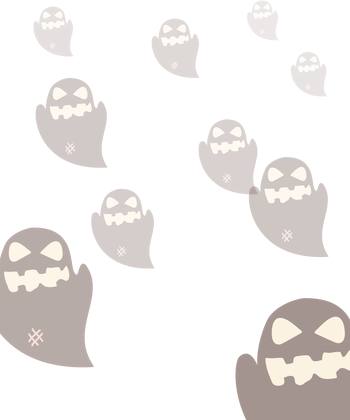
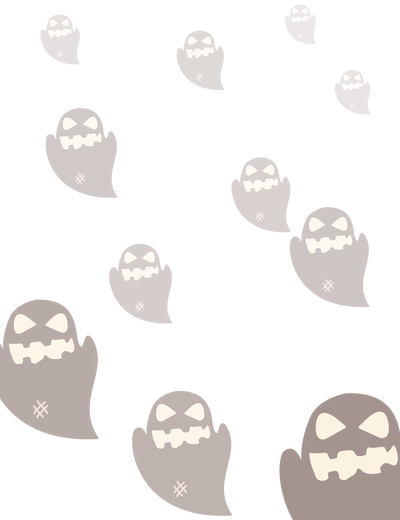
Fixed minor bugs and added sounds.

diff --git a/auto_scroller.py b/auto_scroller.py
@@ -1,7 +1,6 @@
 import sys
 import os
 import json
-import time
 import locale
 import threading
 import multiprocessing
@@ -11,6 +10,7 @@ from platformdirs import user_data_dir
 from random import randint, uniform
 from language_dict import LANG
 from cursor_controls import CursorControls
+from sound_utils import sound_start, sound_tick, sound_stop, sound_clock_tick
 
 
 def bundled_path(relative_path):
@@ -25,8 +25,8 @@ DATA_DIR = user_data_dir(APP_NAME)
 cursor_checks_dict = {"use_trigger": None, "max_wait": None, "min_wait": None, "timer_limit": None}
 app_status = {
     "running_clicks": False,
-    "check_type": None,
-    "timer_limit": None
+    "timer_limit": None,
+    "minutes_remaining": None,
 }
 manual_stop = True
 
@@ -47,7 +47,7 @@ else:
             "language": active_lang,
             "max_click_timer": None,
             "min_click_timer": None,
-            "use_sound": None,
+            "timer_limit": None
         }, _f, indent=2)
 
 active_lang = active_lang if active_lang in LANG else "en"
@@ -104,10 +104,8 @@ def on_reset_settings(icon, _):
                 "language": active_lang,
                 "max_click_timer": None,
                 "min_click_timer": None,
-                "use_sound": None,
+                "timer_limit": None,
             }, _f, indent=2)
-            print('Hello!!!')
-            raise OSError
     except OSError:
         icon.notify("Could not reset settings.", translated_variables["app_title"])
         return
@@ -134,6 +132,7 @@ translated_variables = LANG[active_lang]
 def on_start_scrolling(icon, _):
     global manual_stop
     manual_stop = False
+    threading.Thread(target=sound_start, daemon=True).start()
     threading.Thread(target=run_cursor_controls, args=(icon,), daemon=True).start()
     print('Started Cursor Controling!')
 
@@ -142,7 +141,6 @@ def on_stop_scrolling():
     global manual_stop
     manual_stop = True
     app_status["running_clicks"] = False
-    app_status["check_type"] = None
     print('Stoped cursor controling!')
 
 
@@ -177,23 +175,18 @@ def settings_watcher(icon):
                 MenuItem(translated_variables["quit"], on_quit),
             )
         
-        cursor_checks_dict['use_sound'] = settings.get('use_sound')
         cursor_checks_dict['timer_limit'] = settings.get('timer_limit')
-        if cursor_checks_dict["use_sound"] == True:
-            cursor_checks_dict['max_wait'] = None
-            cursor_checks_dict['min_wait'] = None
-        elif cursor_checks_dict["use_sound"] == False:
-            cursor_checks_dict['max_wait'] = settings.get('max_click_timer')
-            cursor_checks_dict['min_wait'] = settings.get('min_click_timer')
+        cursor_checks_dict['max_wait'] = settings.get('max_click_timer')
+        cursor_checks_dict['min_wait'] = settings.get('min_click_timer')
 
         t = LANG[active_lang]
         click_status = t["1"][0] if app_status["running_clicks"] else t["1"][1]
-        wait_type = t["2"][1] if app_status["check_type"] == "Sound" else t["2"][0]
         timer = str(app_status["timer_limit"]) if app_status["timer_limit"] is not None else "?"
+        remaining = str(app_status["minutes_remaining"]) if app_status["minutes_remaining"] is not None else "?"
         title = t["app_title"]
         title = title.replace(": 1", f": {click_status}")
-        title = title.replace(": 2", f": {wait_type}")
         title = title.replace(": 3 ", f": {timer} ")
+        title = title.replace(": 4 ", f": {remaining} ")
         icon.title = title
 
 
@@ -209,47 +202,34 @@ def run_cursor_controls(icon):
         raw_limit = cursor_checks_dict.get('timer_limit')
         timer_limit = int(raw_limit)*60 if raw_limit is not None else None
         app_status['timer_limit'] = raw_limit
-        print("Line 218: ", app_status, bound_updated, timer_limit_iterator)
+        if timer_limit is not None:
+            app_status['minutes_remaining'] = max(0, (timer_limit - timer_limit_iterator) // 60)
+        else:
+            app_status['minutes_remaining'] = None
+        print(app_status, "click_time: ", random_bound, "time running clicks: ", timer_limit_iterator)
         if timer_limit is None or timer_limit >= timer_limit_iterator and manual_stop != True:
 
             app_status["running_clicks"] = True
 
-            if cursor_checks_dict.get("use_sound") == True:
-                print('We use sound!')
-                app_status["check_type"] = 'Sound'
-                status = CursorControls.check_device_sound_status()
-                if status == False: # This means the device does not run audio.
-                    print('Audio does not play.')
-                    for i in range(randint(3, 10)):
-                        time.sleep(1)
-                        timer_limit_iterator +=1
-                    CursorControls.apply_click()
-                for i in range(randint(4, 7)):
-                    time.sleep(1)
-                    timer_limit_iterator +=1
-                random_bound = -1
+            if bound_updated == False:
+                try:
+                    random_bound = randint(int(cursor_checks_dict.get('min_wait')), int(cursor_checks_dict.get('max_wait')))
+                    bound_updated = True
+                    print('Random_bound updated!')
+                except:
+                    pass
+            if iterator >= random_bound and random_bound != -1:
+                print('We clicked!!')
+                CursorControls.apply_click()
+                threading.Thread(target=sound_tick, daemon=True).start()
                 bound_updated = False
                 iterator = 0
-            elif cursor_checks_dict.get("use_sound") == False:
-                print('We use timer!')
-                app_status["check_type"] = 'Timer'
-                if bound_updated == False:
-                    try:
-                        print('I tried to update random_bound!')
-                        random_bound = randint(int(cursor_checks_dict.get('min_wait')), int(cursor_checks_dict.get('max_wait')))
-                        bound_updated = True
-                        print('Random_bound updated!')
-                    except:
-                        pass
-                if iterator >= random_bound and random_bound != -1:
-                    print('We clicked!!')
-                    CursorControls.apply_click()
-                    bound_updated = False
-                    iterator = 0
-                iterator += 1
-            timer_limit_iterator +=1
+            iterator += 1
+            timer_limit_iterator += 1
+            threading.Thread(target=sound_clock_tick, daemon=True).start()
         else:
             on_stop_scrolling()
+            threading.Thread(target=sound_stop, daemon=True).start()
             break
 
 

diff --git a/as_interface.py b/as_interface.py
@@ -30,9 +30,9 @@ class Interface:
 
         self.root = tk.Tk()
         self.root.title(self.lang[self.active_lang]["app_title"])
-        self.root.geometry("350x420")
-        self.root.minsize(350, 420)
-        self.root.maxsize(350, 420)
+        self.root.geometry("400x520")
+        self.root.minsize(400, 520)
+        self.root.maxsize(400, 520)
         self.root.withdraw()
 
         self._setup_styles()
@@ -56,7 +56,7 @@ class Interface:
         )
 
     def _setup_background(self):
-        bg_image = ImageTk.PhotoImage(Image.open(self.bundled_path("bg.png")).resize((350, 420)))
+        bg_image = ImageTk.PhotoImage(Image.open(self.bundled_path("bg.png")).resize((400, 520)))
         bg_label = tk.Label(self.root, image=bg_image)
         bg_label.image = bg_image
         bg_label.place(x=0, y=0, relwidth=1, relheight=1)
@@ -78,35 +78,30 @@ class Interface:
         # Max click timer
         max_frame = tk.Frame(container)
         max_frame.pack(pady=8)
-        self.max_label = tk.Label(max_frame, text=translated_variables["max_click_timer"], width=10, anchor="w")
+        self.max_label = tk.Label(max_frame, text=translated_variables["max_click_timer"], width=18, anchor="w")
         self.max_label.pack(side="left")
         self.max_var = tk.StringVar()
-        max_combo = ttk.Combobox(max_frame, textvariable=self.max_var, values=list(range(20, 121)), width=4, state="readonly", exportselection=False, justify="center")
+        max_combo = ttk.Combobox(max_frame, textvariable=self.max_var, values=list(range(20, 121)), width=5, state="readonly", exportselection=False, justify="center")
         max_combo.pack(side="left", padx=5)
         max_combo.bind("<<ComboboxSelected>>", on_select)
 
         # Min click timer
         min_frame = tk.Frame(container)
         min_frame.pack(pady=8)
-        self.min_label = tk.Label(min_frame, text=translated_variables["min_click_timer"], width=10, anchor="w")
+        self.min_label = tk.Label(min_frame, text=translated_variables["min_click_timer"], width=18, anchor="w")
         self.min_label.pack(side="left")
         self.min_var = tk.StringVar()
-        min_combo = ttk.Combobox(min_frame, textvariable=self.min_var, values=list(range(10, 40)), width=4, state="readonly", exportselection=False, justify="center")
+        min_combo = ttk.Combobox(min_frame, textvariable=self.min_var, values=list(range(10, 40)), width=5, state="readonly", exportselection=False, justify="center")
         min_combo.pack(side="left", padx=5)
         min_combo.bind("<<ComboboxSelected>>", on_select)
-
-        # Use sound instead
-        self.use_sound_var = tk.IntVar()
-        self.use_sound_check = tk.Checkbutton(container, text=translated_variables["use_sound_instead"], variable=self.use_sound_var, onvalue=1, offvalue=0)
-        self.use_sound_check.pack(pady=8)
 
         # Timer limit
         timer_frame = tk.Frame(container)
         timer_frame.pack(pady=8)
-        self.timer_label = tk.Label(timer_frame, text=translated_variables["timer_limit"], width=10, anchor="w")
+        self.timer_label = tk.Label(timer_frame, text=translated_variables["timer_limit"], width=18, anchor="w")
         self.timer_label.pack(side="left")
         self.timer_var = tk.StringVar()
-        timer_combo = ttk.Combobox(timer_frame, textvariable=self.timer_var, values=list(range(1, 121)), width=4, state="readonly", exportselection=False, justify="center")
+        timer_combo = ttk.Combobox(timer_frame, textvariable=self.timer_var, values=list(range(1, 121)), width=5, state="readonly", exportselection=False, justify="center")
         timer_combo.pack(side="left", padx=5)
         timer_combo.bind("<<ComboboxSelected>>", on_select)
 
@@ -132,7 +127,6 @@ class Interface:
         self.root.title(translated_variables["app_title"])
         self.max_label.config(text=translated_variables["max_click_timer"])
         self.min_label.config(text=translated_variables["min_click_timer"])
-        self.use_sound_check.config(text=translated_variables["use_sound_instead"])
         self.timer_label.config(text=translated_variables["timer_limit"])
         self.save_btn.config(text=translated_variables["save"])
 
@@ -143,20 +137,17 @@ class Interface:
     def _load_settings(self):
         self.max_var.set("")
         self.min_var.set("")
-        self.use_sound_var.set(False)
         self.timer_var.set("")
         if not os.path.exists(self.settings_path):
             return
         try:
             with open(self.settings_path, "r") as f:
                 settings = json.load(f)
-            if "max_click_timer" in settings:
+            if settings.get("max_click_timer") is not None:
                 self.max_var.set(settings["max_click_timer"])
-            if "min_click_timer" in settings:
+            if settings.get("min_click_timer") is not None:
                 self.min_var.set(settings["min_click_timer"])
-            if settings.get("use_sound") is not None:
-                self.use_sound_var.set(1 if settings["use_sound"] else 0)
-            if "timer_limit" in settings:
+            if settings.get("timer_limit") is not None:
                 self.timer_var.set(settings["timer_limit"])
         except (json.JSONDecodeError, OSError):
             pass
@@ -164,10 +155,10 @@ class Interface:
     def _save_settings(self):
         os.makedirs(self.data_dir, exist_ok=True)
         settings = {
-            "max_click_timer": self.max_var.get(),
-            "min_click_timer": self.min_var.get(),
-            "use_sound": self.use_sound_var.get() == 1,
-            "timer_limit": self.timer_var.get(),
+            "language": self.active_lang,
+            "max_click_timer": self.max_var.get() or None,
+            "min_click_timer": self.min_var.get() or None,
+            "timer_limit": self.timer_var.get() or None,
         }
         with open(self.settings_path, "w") as f:
             json.dump(settings, f, indent=2)

diff --git a/sound_utils.py b/sound_utils.py
@@ -1,0 +1,68 @@
+import queue
+import threading
+import numpy as np
+import sounddevice as sd
+
+# Single audio worker — all playback goes through this queue to avoid
+# concurrent sd.play() calls which cause PortAudio double-free crashes.
+_audio_queue = queue.Queue()
+
+
+def _audio_worker():
+    while True:
+        wave, sample_rate = _audio_queue.get()
+        sd.play(wave, sample_rate)
+        sd.wait()
+
+
+threading.Thread(target=_audio_worker, daemon=True).start()
+
+
+def _enqueue(wave, sample_rate=44100):
+    _audio_queue.put((wave.astype(np.float32), sample_rate))
+
+
+def _sine(frequency, duration, volume=0.4, fade_ms=10, sample_rate=44100):
+    samples = int(sample_rate * duration)
+    t = np.linspace(0, duration, samples, False)
+    wave = volume * np.sin(2 * np.pi * frequency * t)
+    fade = int(sample_rate * fade_ms / 1000)
+    ramp = np.linspace(0, 1, fade)
+    wave[:fade] *= ramp
+    wave[-fade:] *= ramp[::-1]
+    return wave
+
+
+def sound_start():
+    """Two rising tones — scrolling has started."""
+    wave = np.concatenate([_sine(660, 0.07), _sine(880, 0.07)])
+    _enqueue(wave)
+
+
+def sound_tick():
+    """Short high tick — a click was applied."""
+    _enqueue(_sine(1000, 0.05))
+
+
+def sound_clock_tick():
+    """Mechanical clock tick — fires every second while timer runs.
+    Skipped if audio is already busy so ticks never pile up."""
+    if not _audio_queue.empty():
+        return
+    sample_rate = 44100
+    duration = 0.08
+    samples = int(sample_rate * duration)
+    rng = np.random.default_rng()
+    noise = rng.uniform(-1, 1, samples)
+    decay = np.exp(-np.linspace(0, 40, samples))
+    tick = 0.002 * noise * decay
+    t = np.linspace(0, duration, samples, False)
+    thump = 0.01 * np.sin(2 * np.pi * 180 * t) * np.exp(-np.linspace(0, 30, samples))
+    wave = np.clip(tick + thump, -1.0, 1.0)
+    _enqueue(wave, sample_rate)
+
+
+def sound_stop():
+    """Three descending tones — scrolling has stopped due to timer limit."""
+    wave = np.concatenate([_sine(440, 1.2), _sine(330, 1.0), _sine(220, 1.4)])
+    _enqueue(wave)

diff --git a/language_dict.py b/language_dict.py
@@ -2,10 +2,9 @@
 
 LANG = {
     "en": {
-        "app_title": "Auto Scroller\nClick Status: 1\nWaiting Type: 2\nMax Running Time: 3 minutes",
+        "app_title": "Ghost Scroller\nClick Status: 1\nMax Running Time: 3 minutes\nMinutes Remaining: 4 min",
         "max_click_timer": "Max click timer:",
         "min_click_timer": "Min click timer:",
-        "use_sound_instead": "Use sound instead",
         "timer_limit": "Running limit",
         "save": "Save",
         "open_interface": "Open Interface",
@@ -13,22 +12,19 @@ LANG = {
         "stop_scrolling": "Stop Scrolling",
         "reset_settings": "Reset Settings",
         "quit": "Quit",
-        "2": ["Time", "Sound"],
         "1": ["Active", "Waiting"]
     },
     "el": {
-        "app_title": "Auto Scroller\nΚλίκ: 1\nΤύπος Αναμονής: 2\nMax Χρόνος Εργασίας: 3 λεπτά",
-        "max_click_timer": "Max χρόνος αναμονής",
-        "min_click_timer": "Min χρόνος αναμονής",
-        "use_sound_instead": "Αναμονή βάση ήχου",
-        "timer_limit": "Χρόνος εργασίας",
+        "app_title": "Ghost Scroller\nΚλίκ: 1\nMax Χρόνος Εργασίας: 3 λεπτά\nΕναπομένοντα Λεπτά: 4 λεπ",
+        "max_click_timer": "Max χρόνος αναμονής:",
+        "min_click_timer": "Min χρόνος αναμονής:",
+        "timer_limit": "Χρόνος εργασίας:",
         "save": "Αποθήκευση",
         "open_interface": "Ρυθμίσεις",
         "start_scrolling": "Εκκίνηση κλίκ",
         "stop_scrolling": "Παύση κλίκ",
         "reset_settings": "Διαγραφή Ρυθμίσεων",
         "quit": "Έξοδος",
-        "2": ["Χρόνος", "Ήχος"],
         "1": ["Ενεργό", "Σε αναναμονή"]
     },
 }

diff --git a/assets/create_ghost_png.py b/assets/create_ghost_png.py
@@ -1,6 +1,6 @@
 from PIL import Image
 
-W, H = 350, 420
+W, H = 400, 520
 bg = Image.new("RGBA", (W, H), (255, 255, 255, 255))
 
 ghost = Image.open("monstera.png").convert("RGBA")
@@ -21,7 +21,7 @@ ghosts = [
     # Close / bottom
     (0.28, 110, 0.10, 0.72),
     # (0.32, 120, 0.70, 0.78),
-    # (0.25, 100, 0.45, 0.88),
+    (0.25, 100, 0.45, 0.88),
     (0.38, 140, 0.88, 0.95),
 ]
 
